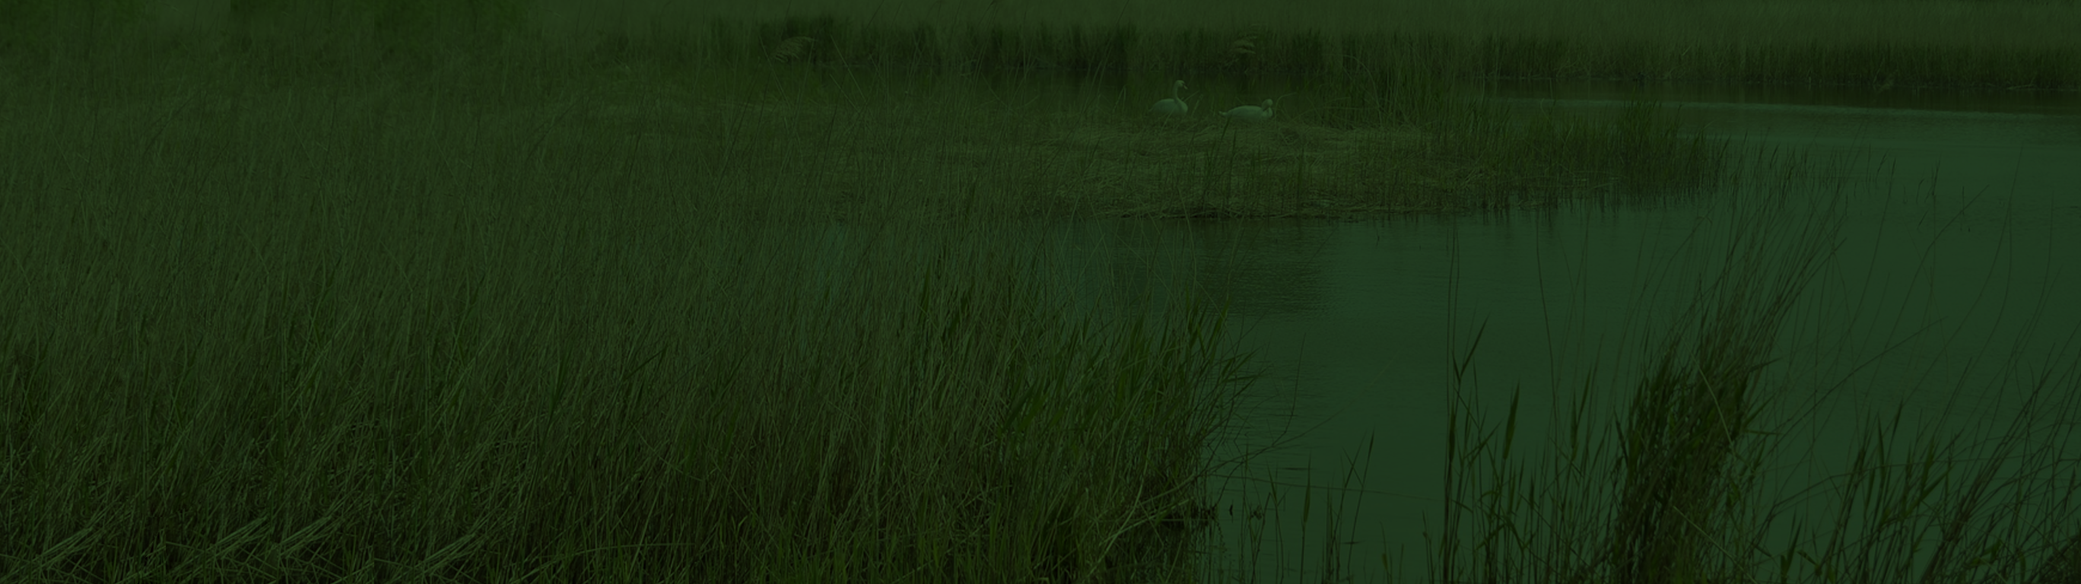
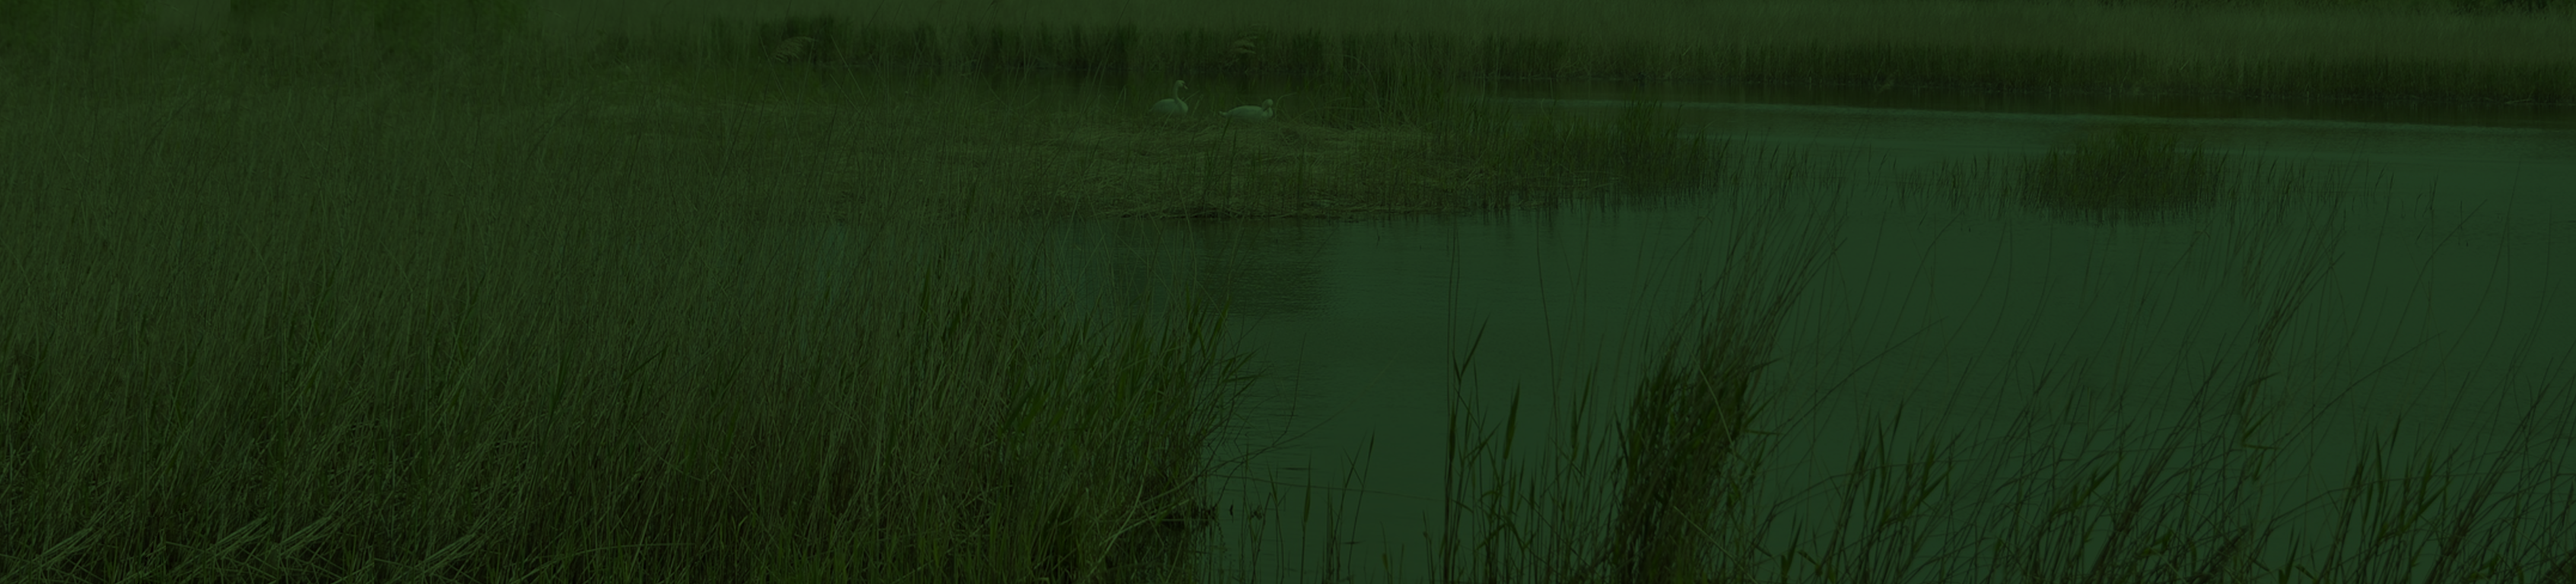
a

diff --git a/src/app2.vue b/src/app2.vue
@@ -60,7 +60,7 @@
         name: "app",
         data: function(){return {
                 view: null,
-                angle:0,
+                angle:-95,
                 prevx:null,
                 language:'lv',
                 selectedDetail:null,
@@ -504,7 +504,7 @@
       /*  border: 1px dashed yellow; */
     }
     .background-slider{
-        width:2736px;
+        width:3386px;
         height:768px;
         position:absolute;
         top:0;

diff --git a/tools/modify.php b/tools/modify.php
@@ -1,0 +1,18 @@
+<?php
+
+$inputFile="input/config.json";
+
+$content = file_get_contents($inputFile);
+$configData = json_decode($content, true);
+
+
+
+foreach ($configData['sectors'] as $k=>$v) {
+
+
+
+
+}
+
+echo json_encode($configData, JSON_PRETTY_PRINT | JSON_UNESCAPED_SLASHES | JSON_UNESCAPED_UNICODE);
+
